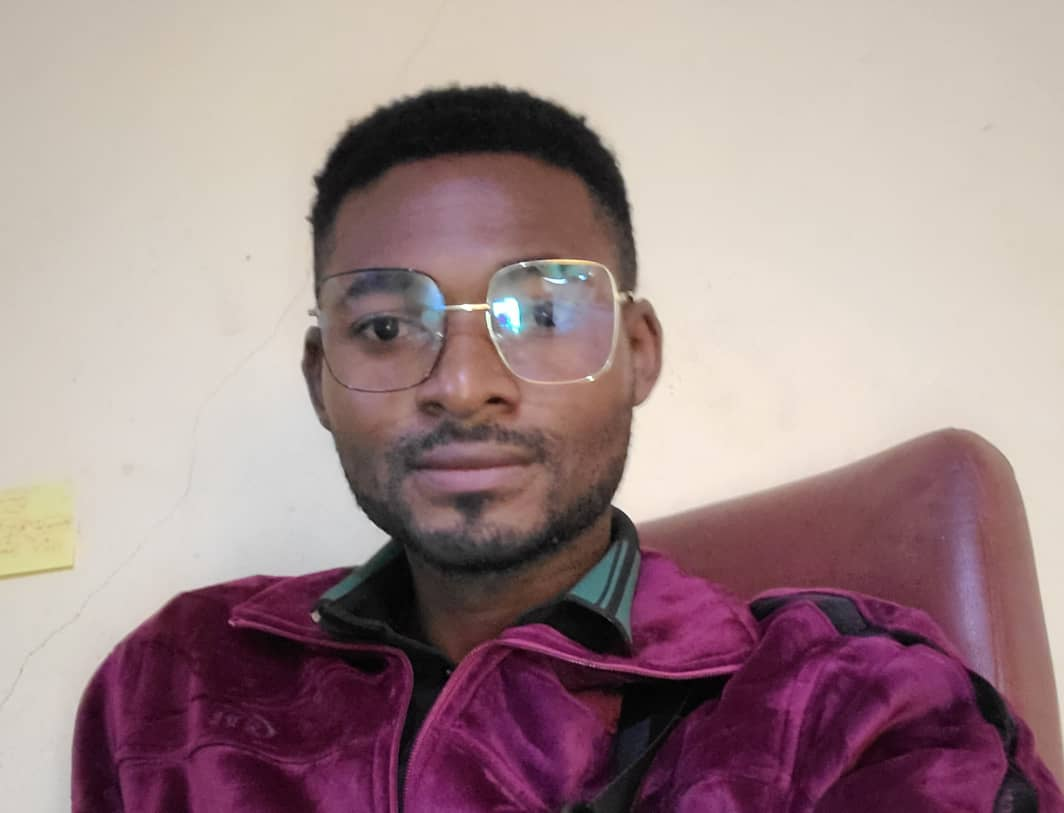
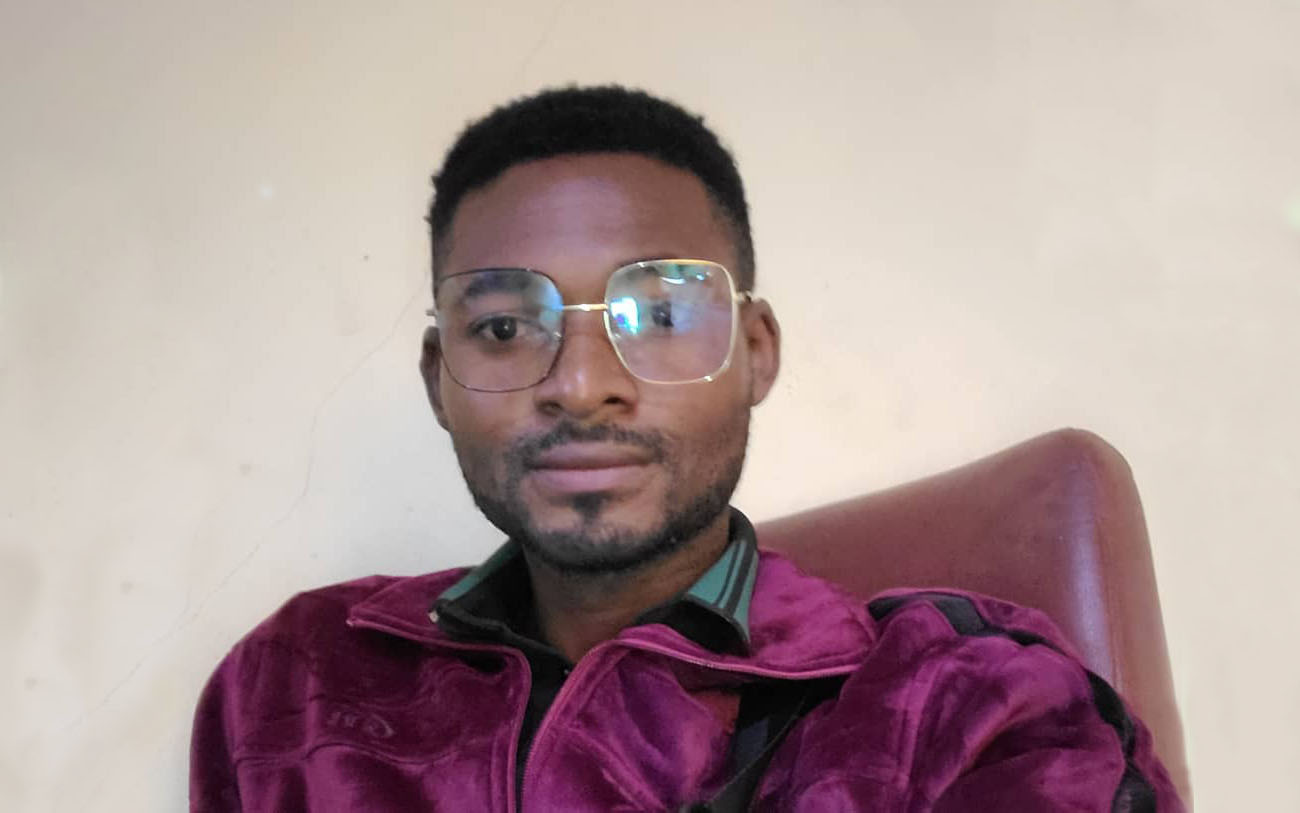
fix responsive

Changed region(s): [[0.031, 0.0923, 1.0, 1.0], [0.0, 0.5843, 0.093, 0.738]]

diff --git a/components/ServiceCard.js b/components/ServiceCard.js
@@ -7,13 +7,17 @@ const ServiceCard = ({ id, title, description, icon, color, styleColor }) => {
       style={{ backgroundColor: styleColor ? styleColor : "" }}
       className={`${color} rounded-lg shadow-lg overflow-hidden`}
     >
-      <div className="p-6">
-        <div className="text-4xl mb-4">{icon}</div>
-        <h3 className="text-xl font-semibold mb-2 text-white">{title}</h3>
-        <p className="text-white mb-4">{description}</p>
+      <div className="p-6 flex flex-col items-center md:items-start">
+        <div className="text-4xl mb-4 text-center md:text-left">{icon}</div>
+        <h3 className="text-xl font-semibold mb-2 text-white text-center md:text-left">
+          {title}
+        </h3>
+        <p className="text-white mb-4 text-center md:text-left">
+          {description}
+        </p>
         <Link
           href={`/services/${id}`}
-          className="inline-block bg-white text-blue-600 px-4 py-2 rounded-lg font-semibold hover:bg-gray-100 transition duration-300"
+          className="inline-block bg-white text-blue-600 px-4 py-2 rounded-lg font-semibold hover:bg-gray-100 transition duration-300 text-center md:text-left"
         >
           Learn More
         </Link>

diff --git a/components/OurTeam.js b/components/OurTeam.js
@@ -24,7 +24,7 @@ const OurTeam = () => {
     {
       name: "Ndjock Michel",
       role: "Founder & CEO",
-      image: "/images/ndjockjunior.jpeg",
+      image: "/images/ndjockjunior.jpg",
       bio: "With a Masters of Engineering Science in Software Engineering from NAHPI, Ndjock has over 10 years of experience in Software Development and Cloud DevOps. He founded GUMUH with a vision to drive technological innovation in Cameroon and across Africa.",
     },
     {
@@ -60,7 +60,7 @@ const OurTeam = () => {
     {
       name: "Ndogmo Kevin",
       role: "Lead Backend Developer",
-      image: "/images/team/omar.jpg",
+      image: "/images/kevin.jpg",
       bio: "Kevin is a highly skilled backend developer with expertise in building scalable and efficient server-side applications. With a strong understanding of databases and APIs, Kevin ensures that our backend systems are robust and performant. His problem-solving skills and attention to detail make him an invaluable member of our team.",
     },
   ];
